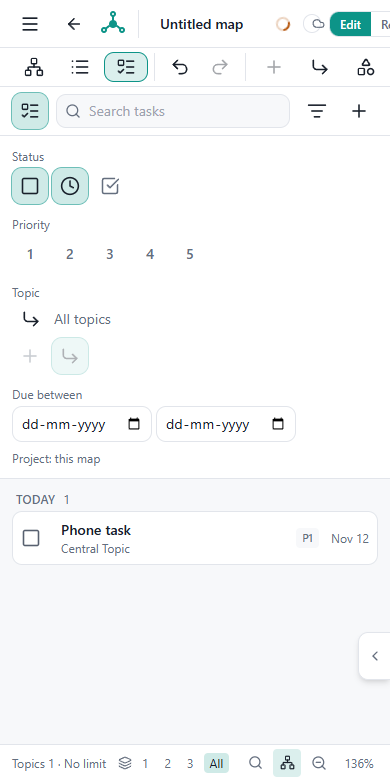
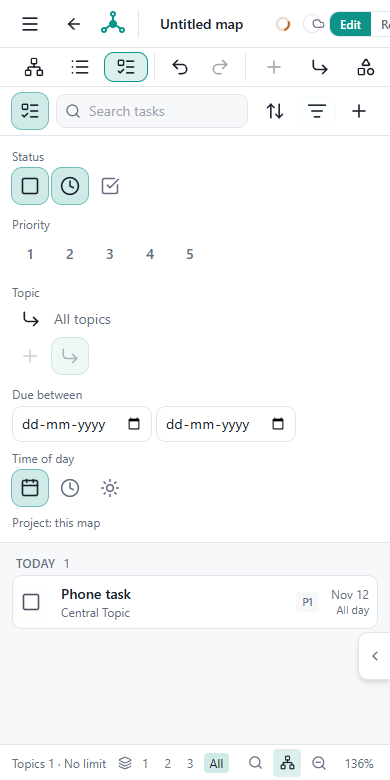
Notes and tasks part 2.6: Copy as text leaves notes and tasks out unless asked (separate command), two-device test script, docs, a late-timer guard in the note editor

diff --git a/src/editor/copyItems.test.tsx b/src/editor/copyItems.test.tsx
@@ -1,0 +1,52 @@
+// @vitest-environment jsdom
+import 'fake-indexeddb/auto'
+import { act } from '@testing-library/react'
+import { afterEach, beforeEach, describe, expect, it } from 'vitest'
+import { MemoryBackend, RepositoryCore } from '@/core/files/core'
+import { buildStarterContent } from '@/core/files/templates'
+import { addChild } from '@/core/model/commands'
+import { setNote } from '@/core/model/content'
+import { addNote } from '@/core/model/notes'
+import { addTask } from '@/core/model/tasks'
+import { installMemoryLocalStorage } from '../test/memoryStorage'
+import { cmdCopy } from './actions'
+import { COMMANDS } from './registry'
+import { closeFile, mapDoc, openFile } from './session'
+import { useEditor } from './store'
+
+let repo: RepositoryCore
+let t = 1_700_000_000_000
+const settle = (ms = 30) => act(async () => void (await new Promise((r) => setTimeout(r, ms))))
+
+beforeEach(async () => {
+  installMemoryLocalStorage()
+  repo = new RepositoryCore(new MemoryBackend(), () => (t += 1000))
+  const f = await repo.create({ type: 'map', name: 'Copy', content: buildStarterContent('blank') })
+  await openFile(f.id, repo)
+  await settle()
+})
+afterEach(async () => {
+  await closeFile()
+})
+
+describe('Copy as text: notes and tasks are an opt-in', () => {
+  it('Copy leaves them out as it always did; "Copy with notes and tasks" adds [Note] and [Task] lines, with the time', async () => {
+    const root = useEditor.getState().rootId
+    const dose = addChild(mapDoc, root, 'Dose')
+    setNote(mapDoc, dose, '<p>first note</p>')
+    addNote(mapDoc, dose, { title: 'Storage', html: '<p>cold</p>' })
+    addTask(mapDoc, { topicId: dose, title: 'Call', due: '2026-11-14', time: '17:00' })
+    await settle()
+    act(() => useEditor.setState({ selected: [dose] }))
+    const plain = cmdCopy()
+    expect(plain).toBe('Dose')
+    const full = cmdCopy(true)
+    expect(full).toContain('Dose')
+    expect(full).toContain('[Note] first note')
+    expect(full).toContain('[Note] Storage: cold')
+    expect(full).toContain('[Task] [ ] Call (due 2026-11-14 17:00)')
+    // The plain copy is still what the default command does.
+    expect(COMMANDS.find((c) => c.id === 'copy')?.label).toBe('Copy')
+    expect(COMMANDS.find((c) => c.id === 'copyItems')?.label).toBe('Copy with notes and tasks (as text)')
+  })
+})

diff --git a/src/editor/actions.ts b/src/editor/actions.ts
@@ -295,12 +295,16 @@ function branchImageIds(bs: Branch[]): string[] {
 }
 addImageReferenceSource(() => (clip ? branchImageIds(clip.branches) : []))
 
-export function cmdCopy(): string | null {
+/**
+ * Copies the selected branch (the topics, as outline text on the clipboard and as branches for pasting back). The notes and tasks of the
+ * topics are left out, as they always were; "Copy with notes and tasks" (`withItems`) adds them as [Note] and [Task] lines.
+ */
+export function cmdCopy(withItems = false): string | null {
   const { selected, topics, rootId, notes, tasks } = get()
   const ids = selected.length ? selected : [rootId]
   const branches = serializeBranches(topics, ids)
   if (!branches.length) return null
-  const text = toOutline(topics, ids, (id) => itemLines(topics, notes, id, tasks))
+  const text = toOutline(topics, ids, withItems ? (id) => itemLines(topics, notes, id, tasks) : undefined)
   clip = { branches, text }
   navigator.clipboard?.writeText(text).catch(() => {})
   return text

diff --git a/src/editor/registry.ts b/src/editor/registry.ts
@@ -60,6 +60,7 @@ export const COMMANDS: Cmd[] = [
   { id: 'undo', label: 'Undo', group: 'Edit', keys: ['Ctrl+Z'], run: A.cmdUndo },
   { id: 'redo', label: 'Redo', group: 'Edit', keys: ['Ctrl+Y', 'Ctrl+Shift+Z'], run: A.cmdRedo },
   { id: 'copy', label: 'Copy', group: 'Edit', keys: ['Ctrl+C'], run: () => void A.cmdCopy() },
+  { id: 'copyItems', label: 'Copy with notes and tasks (as text)', group: 'Edit', run: () => void A.cmdCopy(true) },
   { id: 'cut', label: 'Cut', group: 'Edit', keys: ['Ctrl+X'], run: A.cmdCut },
   { id: 'paste', label: 'Paste', group: 'Edit', hint: 'Ctrl+V', run: () => {}, palette: false },
   { id: 'pasteImage', label: 'Paste an image into the selected topic', group: 'Edit', hint: 'Ctrl+V', run: () => {}, palette: false },

diff --git a/e2e/notes-tasks.spec.ts b/e2e/notes-tasks.spec.ts
@@ -287,7 +287,7 @@ test.describe('the Task view by time, and Arrange', () => {
       expect(await titles()).toEqual(['Whole day', 'Morning call', 'Evening call'])
       await expect(page.locator('[data-task-item]').first().locator('[data-task-time]')).toHaveText('All day')
       await expect(page.locator('[data-task-item]').nth(1).locator('[data-task-time]')).toContainText(/9:00|09:00/)
-      if (name === 'desktop') await page.screenshot({ path: join(SHOTS, 'task-view-times-desktop.png') })
+      await page.screenshot({ path: join(SHOTS, `task-view-times-${name}.png`) })
 
       // Arrange: group by priority, sort by name, turn round.
       await page.getByRole('button', { name: 'Arrange' }).click()

diff --git a/src/editor/items/RichNoteEditor.tsx b/src/editor/items/RichNoteEditor.tsx
@@ -166,6 +166,7 @@ export function RichNoteEditor({ html, onSave, label, placeholder = 'Write a not
   function write(ed: Editor) {
     clearTimeout(timer.current)
     timer.current = undefined
+    if (ed.isDestroyed) return // a late timer after the editor went away
     const next = ed.isEmpty ? '' : sanitizeNote(ed.getHTML())
     if (next === saved.current) return
     saved.current = next

diff --git a/CHANGELOG.md b/CHANGELOG.md
@@ -14,6 +14,7 @@
 - Part 2.2: **the Task view by time, and Arrange.** Tasks get a **Due time** in the task popup (next to the date; needs a date; a clear icon makes it all-day). Each row shows its time or "All day"; inside a date group the all-day tasks come first, then by time. **Overdue looks at the clock:** a timed task is overdue from the minute after its time (a 5 pm task is not overdue at 4 pm or at 5:00 pm, but is at 5:01 pm; the view re-checks every 15 seconds), a task with no time from the next day. A new filter **Time of day** (any / only timed / only all-day). A new **Arrange** icon in the Task view opens a popover: **Group by** Date (as before), Priority, Status, Topic / branch, or None (one flat list); **Sort by** Date and time, Date only, Name (A to Z), Priority, Status, Created; an icon turns the sort ascending / descending. The choice is remembered on this device and combines with the filters; tasks with no date or priority form a last "No date" / "No priority" group. (`core/tasks/agenda.ts`, `items/ArrangeMenu.tsx`, tests `arrange.test.ts`, `taskView.test.tsx`, e2e at desktop, tablet and phone size.)
 - Part 2.3: **wider note popup.** One size icon in the note popup header steps Normal, Wide, Full screen, Normal; its tooltip names the next step ("Wider", "Full screen", "Narrower"). The size is remembered on this device (`wishtaa.noteSize`); under 640 px the popup stays a full sheet and the icon is hidden. The editor uses the extra width. The formatting toolbar never wraps: when the popup is too narrow, the last tools move into a **More formatting** menu (`visibleTools`, a ResizeObserver); at normal size on a computer and on a tablet all 14 tools show.
 - Part 2.4 and 2.5: **a task on the note.** A floating icon (tooltip "Add task details") sits at the lower-left of the note's writing area, over the text, with bottom padding so the last lines are never hidden. It opens a compact panel over the note: title (starts as the note title, copied once), due date, due time (optional), status (To do / Doing / Done icons) and priority 1 to 5; "Add the task" creates the task, linked to the note and to its topic (nothing is created if the panel is closed first). The note then shows a chip under the toolbar, for example "Task · Nov 14, 5:00 PM · To do" (red when overdue; "+1" if two devices added a second task to the same note); a click edits it, with a Remove icon (Undo kept). One task per note in the screen for now; the data allows more. In the **Task view** a row of a task that belongs to a note opens that note (otherwise the task popup, as before), and ticking the task there changes the chip at once. **Deleting a note keeps its task** ("Note deleted. Its task is kept."), and a new empty note that has a task is not thrown away when closed. In Read mode the chip is shown and the details can be read, nothing changes. Tests: `noteTask.test.tsx`, e2e at desktop and phone size.
+- Part 2.6: **outline copy is an opt-in.** Copy (Ctrl+C) is exactly what it was before the notes and tasks work: topics only. A new command **Copy with notes and tasks (as text)** (Edit group, in the command palette Ctrl+K) adds the `[Note]` and `[Task]` lines; a task with a time is written `(due 2026-11-14 17:00)`. This undoes the small change made in step 2 where Copy always added them. New `docs/two-device-test.md`: the manual two-device script (not run on real Drive by Claude).
 
 ### Open a PDF in the toolbar (PDF panel)
 - A new **Open a PDF** icon (a document with a plus) in the top bar, with the tooltip "Open a PDF". Click: a small popover (drawn above everything, never clipped; keyboard: arrows, Enter, Escape, focus returns; 44 px targets on touch) with two icons, a laptop **From this device** and a cloud **From Google Drive**, and a short Recent PDFs list (file names) under them. It is on the bar when only ONE PDF is open too.

diff --git a/docs/PROJECT_STATE.md b/docs/PROJECT_STATE.md
@@ -64,6 +64,7 @@ person's own Google Drive. Optional accounts (emailed code, password, Google) ad
 3. Capture, Group C (clips tray as references). Groups A and B are done and live.
 3b. **Done:** Two-page view auto-widens the panel and restores it, Fit height, book-icon toggle, remembered layout for new PDFs on wide screens, Reset to default layout, Presentation mode shown disabled.
 3b4. **Notes and tasks, steps 1 to 5 done (committed locally, not pushed; details in docs/notes-and-tasks.md):** popup shell, several notes per topic (new shared map `notes`, first note stays in `topic.note`), note popup with icon toolbar, tasks of their own (new shared map `tasks`, plus the older topic flag), Task view with the Agenda and filters. Both maps are in `MERGE_MAPS`. Search, file index and outline export include them. Not tested with a real Drive, a real phone or tablet, Safari or Firefox. Month, Board, all-maps and pictures inside notes are not built.
+3b5. **Notes and tasks, part 2 done (committed locally, not pushed; docs/notes-and-tasks.md, docs/two-device-test.md):** tasks have an optional local clock time (`time`, "HH:MM") and a link to a note (`noteId`, on the task only); the Task view sorts by time, marks a timed task overdue after its time, has a Time of day filter and an **Arrange** popover (group by Date / Priority / Status / Topic / None; sort by Date and time, Date, Name, Priority, Status, Created; ascending or descending; remembered per device); the note popup has a size icon (Normal / Wide / Full screen, remembered) and a toolbar that moves tools into More instead of wrapping; a floating task icon on the note opens a compact panel and a chip shows the task; a Task view row opens its note; deleting a note keeps its task; Copy leaves notes and tasks out, with a separate "Copy with notes and tasks" command. Not tested: real Drive with two devices, a real phone or tablet, Safari, Firefox, a screen reader. Steps 6 to 8 (Month, Board, all maps) wait for a new go.
 3b3. **Open a PDF in the toolbar done (committed locally, not pushed):** file-plus icon on the bar (also with one PDF) and on the "+" of the tab row, one shared popover (laptop, cloud, Recent PDFs), the "..." items kept, new leaving order of the bar buttons (Open a PDF last), large labelled buttons in the empty panel. Not tested with a real Google Drive, a real Brave or a real phone.
 3b2. **Collapse PDF done (committed locally, not pushed):** top-bar icon, Alt+Shift+F, 36 px edge tab with badge, floating 48 px button on touch, remembered across reloads (Full too), ends Capture area, refuses while a text box has typing. Browser tests: scroll offset restored within 0 px (desktop two-page, split view, reload, tablet, phone, 200-page PDF); the map's width changes in one step (410 to 1330 px, no values in between). Not tested on a real phone or tablet, Safari or Firefox.
 3c. **Part 2 Group A (clean reading interface) done:** one thin 44 px top bar, floating pen bar (Markup button, auto-fold after 4 s), Markup list drawer instead of the Pages/Markup tabs, page chip, Focus mode, app header and map toolbar hidden at Full screen, scan note as a once-per-PDF hint, optional thumbnail strip. Page area start (px from the window top) at 1366x768: Normal 285 before, 141 after; Full 249 before, 44 after. Tablet landscape (sheet): Normal 662 before, 497 after; Full 294 before, 44 after; tablet portrait Full 294 before, 44 after. Order from now on: B1+B3, then C1 to C3, then B2, then B4, with C4 (Hide answers) last.

diff --git a/docs/two-device-test.md b/docs/two-device-test.md
@@ -1,0 +1,45 @@
+# Two-device test: notes, tasks and the merge
+
+A manual script for the owner. It has NOT been run on real Google Drive by Claude: the merge is only unit-tested (`src/core/model/tasks.test.ts`, `notes.test.ts`). Run it with two real devices (a laptop and a tablet), or two Chrome profiles, both signed in to the same Google account, with the map saved to Drive.
+
+Use a new test map so nothing real is at risk. Write down pass or fail for each step and send anything that looks wrong.
+
+## Setup
+1. On both devices open https://maps.wishtaa.com (or the local test page) and sign in with the same Google account.
+2. Device A: create a map "Merge test", add a topic "Dose", save it to Google Drive. Wait for **Saved**.
+3. Device B: open the same map from Drive. Wait for **Saved**. Both show the topic "Dose".
+
+## 1. A note and a task, one device
+4. A: select "Dose", add a note (Insert, Notes, plus). Title "Meeting", text "agenda".
+5. A: in the note press the floating task icon ("Add task details"). Set tomorrow, 5:00 pm, Priority 1, press **Add the task**. The chip shows "Task · ... · To do". Close the note. Wait for Saved.
+6. B: reload the map. Open the note on "Dose". Expected: same text, same chip. Open the Task view: the task is listed with its time, and a click on it opens the note.
+
+## 2. Different edits at the same moment (offline)
+7. Put both devices offline (browser offline mode, or aeroplane mode).
+8. A: change the note text to "agenda changed".
+9. B: in the Task view change the task time to 6:00 pm and tick it Done.
+10. Put both back online and wait for Saved on both.
+11. Expected on BOTH devices: the note says "agenda changed", the task is 6:00 pm and Done, the chip says Done, and there is no "Two versions" dialog.
+
+## 3. The same field changed on both
+12. Both offline again. A: set the task time to 7:00 pm (and set it To do). B: set it to 8:00 pm.
+13. Both online, wait for Saved. Expected: one time wins (the later edit, 8:00 pm unless A was edited last) and the other change is mentioned in the merge notice; no data is lost silently.
+
+## 4. Delete a note whose task is edited elsewhere
+14. Both offline. A: delete the note (trash icon in the note popup). The message says its task is kept. B: change the task title to "Follow up".
+15. Both online, wait for Saved. Expected: the note is gone, the task is still there with the title "Follow up", and in the Task view it opens its own task popup (it has no note any more).
+16. Undo: on A, delete a note that has a task and press **Undo** in the message at once. Expected: the note comes back and the chip is there again.
+
+## 5. Two tasks on the same note
+17. Both offline. On both devices add a task to the same note with the floating icon (different titles).
+18. Both online, wait for Saved. Expected: both tasks exist (the Task view lists both). The note chip shows one of them with "+1".
+
+## 6. Arrange and the size are per device
+19. On A set the Task view to Arrange, Group by Priority. On B it stays as it was (the choice is remembered per device, not shared).
+20. On A make the note popup Wide. On B it keeps its own size.
+
+## 7. Copy as text
+21. Select "Dose" and press Ctrl+C, paste into a text editor: only the topics. Then use the command palette (Ctrl+K), "Copy with notes and tasks (as text)", paste: the `[Note]` and `[Task]` lines are included.
+
+## Report back
+For each numbered step: pass, or what you saw instead (a screenshot helps).

diff --git a/docs/notes-and-tasks.md b/docs/notes-and-tasks.md
@@ -62,3 +62,7 @@ Several notes per topic, tasks of their own, and a Task view. Built in five smal
 - `NoteTask.tsx`: `NoteTaskChip` ("Task · date, time · status", reads the task so it follows the Task view) and `NoteTaskPanel` (title, date, time, status, priority). Without a task it keeps a draft and "Add the task" creates it with `noteId` and the note's topic; with a task every change is saved at once (title after 500 ms). The panel has `data-popover` so the popup's Escape waits for it; a press outside it closes it.
 - Delete rule: deleting a note never touches its tasks; an empty new note that has a task is kept on close.
 - Task view: `TaskView` opens `openNote(noteId)` when the task has a note that exists (a topic's first note counts only when it has text), otherwise the task popup.
+
+## 2.6 Outline copy opt-in, and the two-device script
+- `cmdCopy(withItems = false)`: the plain Copy leaves notes and tasks out; the `copyItems` command ("Copy with notes and tasks (as text)") passes `true`. Parsing an outline back still skips the `[Note]` / `[Task]` lines.
+- `docs/two-device-test.md` is the script for testing the merge on two real devices.
